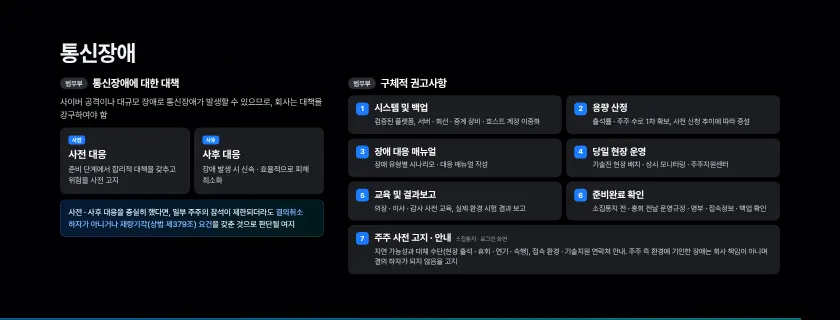
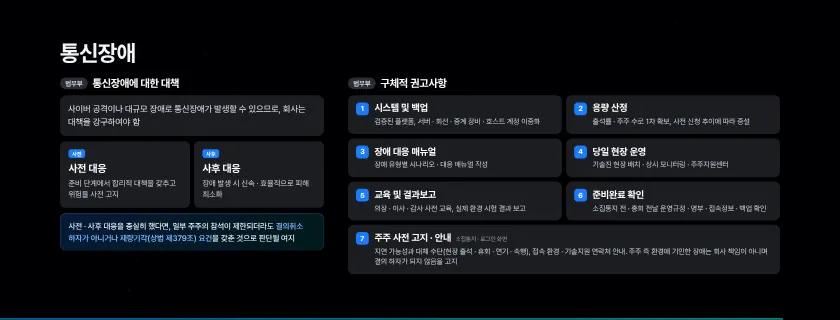
session4 K28d 단계 점 · 번호 오렌지 → 레드(#ff4d5e), K28e 「사이버 공격이나 대규모 장애로…」 문장을 다른 항목과 같은 박스로
Claude-Session: https://claude.ai/code/session_01Mn7NmyW5iujmmHnaRBFKBZ

Changed region(s): [[0.0619, 0.2812, 0.4024, 0.7812], [0.9286, 0.9688, 0.9595, 1.0]]

diff --git a/sw.js b/sw.js
@@ -1,5 +1,5 @@
 /* 오프라인 캐시 — 온라인 주소(https)로 한 번 열면 모든 파일을 저장해 두고, 통신이 끊겨도 저장본으로 동작합니다. */
-const V='seminar-screen-11262140';
+const V='seminar-screen-11262141';
 const FILES=["./","assets/KakaoBigSans-Bold.woff2","assets/KakaoBigSans-Regular.woff2","assets/KakaoSmallSans-Bold.woff2","assets/KakaoSmallSans-Light.woff2","assets/KakaoSmallSans-Regular.woff2","assets/OrbitControls.js","assets/PretendardVariable.woff2","assets/attendees.js","assets/blue-bloom.html","assets/cong1.webp","assets/cong2.webp","assets/ds-bg.html","assets/four-states.html","assets/intro.mp4","assets/irk-white.svg","assets/irk-wordmark-white.svg","assets/kism-intro.mp4","assets/kism-white.svg","assets/ksmp-white.svg","assets/panel.js","assets/qa-online.js","assets/s2/img1.png","assets/s2/img2.png","assets/s2/img3.png","assets/s2/img4.png","assets/s4/aws.webp","assets/s4/callcenter.webp","assets/s4/chair-1.webp","assets/s4/chair-2.webp","assets/s4/chair-3.webp","assets/s4/conexus-word.webp","assets/s4/ctl-1.webp","assets/s4/cx-1.webp","assets/s4/cx-2.webp","assets/s4/cx-3.webp","assets/s4/cx-flow.mp4","assets/s4/cx-pop1.webp","assets/s4/cx-pop2.webp","assets/s4/cx-vote.mp4","assets/s4/cx-vote.webp","assets/s4/cxs-1.webp","assets/s4/insurance.webp","assets/s4/isms-t.webp","assets/s4/isms.webp","assets/s4/ismsp-t.webp","assets/s4/ismsp.webp","assets/s4/kosmos-white.png","assets/s4/ks-1.webp","assets/s4/ks-2.webp","assets/s4/ks-3.webp","assets/s4/ks-4.webp","assets/s4/ks-5.webp","assets/s4/ks-video.webp","assets/s4/live-1.webp","assets/s4/live-2.webp","assets/s4/live-3.webp","assets/s4/live-4.webp","assets/s4/live-5.webp","assets/s4/live-6.webp","assets/s4/live-7.webp","assets/s4/live-8.webp","assets/s4/logos.webp","assets/s4/ocr-1.webp","assets/s4/ocr-2.webp","assets/s4/ocr-3.webp","assets/s4/ocr-4.webp","assets/s4/ocr-5.webp","assets/s4/on-1.png","assets/s4/on-2.webp","assets/s4/on-3.webp","assets/s4/on-4.png","assets/s4/on-5.webp","assets/s4/onboard-1.webp","assets/s4/onboard-2.webp","assets/s4/privacy.webp","assets/s4/proxymity.svg","assets/s4/rehearsal.webp","assets/s4/streaming-korea.webp","assets/s4/tab-1.webp","assets/s4/tab-2.webp","assets/s4/team.webp","assets/sched.js","assets/screen-title-2.svg","assets/screen-title-b-text.svg","assets/screen-title-b.svg","assets/seat-banners.js","assets/seat-fascia.js","assets/seat-screen.js","assets/seatmap.js","assets/service-intro.mp4","assets/speaker-scott.webp","assets/speaker1-1.webp","assets/speaker2.webp","assets/speaker3-1.webp","assets/supabase.min.js","assets/three.min.js","assets/title-logos.svg","control.html","index-fs.html","index.html","kism.html","lobby/cuts.html","lobby/index.html","mc.html","session2.html","session4.html","sw.js","tools/s2_build.py","tools/s2_shell.html","assets/s3/p01.webp","assets/s3/p02.webp","assets/s3/p03.webp","assets/s3/p04.webp","assets/s3/p05.webp","assets/s3/p06.webp","assets/s3/p07.webp","assets/s3/p08.webp","assets/s3/p09.webp","assets/s3/p10.webp","assets/s3/p11.webp","assets/s3/p12.webp","assets/s3/p13.webp","assets/s3/p14.webp","assets/s3/p15.webp","assets/s3/p16.webp","assets/s3/p17.webp","assets/s3/p18.webp","assets/s3/p19.webp","assets/s3/p20.webp","assets/s3/p21.webp","assets/s3/p22.webp","assets/s3/p23.webp","assets/kism/photo-main.webp","assets/kism/photo-2.webp","assets/kism/photo-3.webp","assets/kism/photo-4.webp","assets/sound/countdown-tick.mp3","assets/sound/sfx-s3-part.mp3","assets/sound/sfx-s4-reveal.mp3","assets/sound/sfx-s5-proxymity.mp3","assets/sound/sfx-s6-chime.mp3","assets/sound/sfx-s7-close.mp3","assets/sound/opening-hit.mp3","assets/s4/kosmos-color.svg","assets/s4/ke-logo.png","assets/s4/ke-live.mp4","assets/kism/kwon-talk.mp4","assets/kism/manual-book.webp","kism-open.html","kism_16x9.html","led.html","assets/s4/cx-ops.mp4","assets/s4/cx-ops.webp","assets/s4/agent-app.mp4","assets/s4/pc-map.webp","assets/s4/pc-map.mp4","assets/s4/agent-app.webp","assets/s4/k24b-bg.webp","session0.html","face.html","assets/face-link.js","assets/kism/photo-main-cut.webp","assets/s4/cx-chair.mp4","assets/s4/cx-chair.webp","assets/s4/cx-test.mp4","assets/s4/cx-test.webp","assets/s4/onboard-mgr.webp","assets/s4/proxymity-logo.png","assets/s4/k21-bg.webp","assets/s4/kosmos-admin-white.svg","assets/kism-intro-16x9.mp4","assets/seat-guide.html","assets/s4/app-icon-agent.svg","assets/ds-main.mp4","assets/s4/k2-agency.webp","assets/s4/k2-support.webp","assets/s4/thumbs/K00.webp","assets/s4/thumbs/K01.webp","assets/s4/thumbs/K02.webp","assets/s4/thumbs/K03.webp","assets/s4/thumbs/K04.webp","assets/s4/thumbs/K05.webp","assets/s4/thumbs/K06.webp","assets/s4/thumbs/K07.webp","assets/s4/thumbs/K08.webp","assets/s4/thumbs/K09.webp","assets/s4/thumbs/K10.webp","assets/s4/thumbs/K11.webp","assets/s4/thumbs/K12.webp","assets/s4/thumbs/K13.webp","assets/s4/thumbs/K14.webp","assets/s4/thumbs/K15.webp","assets/s4/thumbs/K16.webp","assets/s4/thumbs/K17.webp","assets/s4/thumbs/K18a.webp","assets/s4/thumbs/K18b.webp","assets/s4/thumbs/K18c.webp","assets/s4/thumbs/K19.webp","assets/s4/thumbs/K19b.webp","assets/s4/thumbs/K19c.webp","assets/s4/thumbs/K20.webp","assets/s4/thumbs/K21.webp","assets/s4/thumbs/K21b.webp","assets/s4/thumbs/K22s.webp","assets/s4/thumbs/K23.webp","assets/s4/thumbs/K23b.webp","assets/s4/thumbs/K24a.webp","assets/s4/thumbs/K24b.webp","assets/s4/thumbs/K24c.webp","assets/s4/thumbs/K25.webp","assets/s4/thumbs/K25b.webp","assets/s4/thumbs/K26.webp","assets/s4/thumbs/K27.webp","assets/s4/thumbs/K28a.webp","assets/s4/thumbs/K28b.webp","assets/s4/thumbs/K28c.webp","assets/s4/thumbs/K28d.webp","assets/s4/thumbs/K29.webp","assets/s4/thumbs/K30.webp","assets/s4/thumbs/K09b.webp","assets/s4/thumbs/K28e.webp","assets/s4/onsite-vote.mp4","assets/s4/onsite-vote.webp"];
 self.addEventListener('install',e=>{e.waitUntil(caches.open(V).then(c=>c.addAll(FILES)).then(()=>self.skipWaiting()));});
 self.addEventListener('activate',e=>{e.waitUntil(caches.keys().then(ks=>Promise.all(ks.filter(k=>k!==V).map(k=>caches.delete(k)))).then(()=>self.clients.claim()));});
